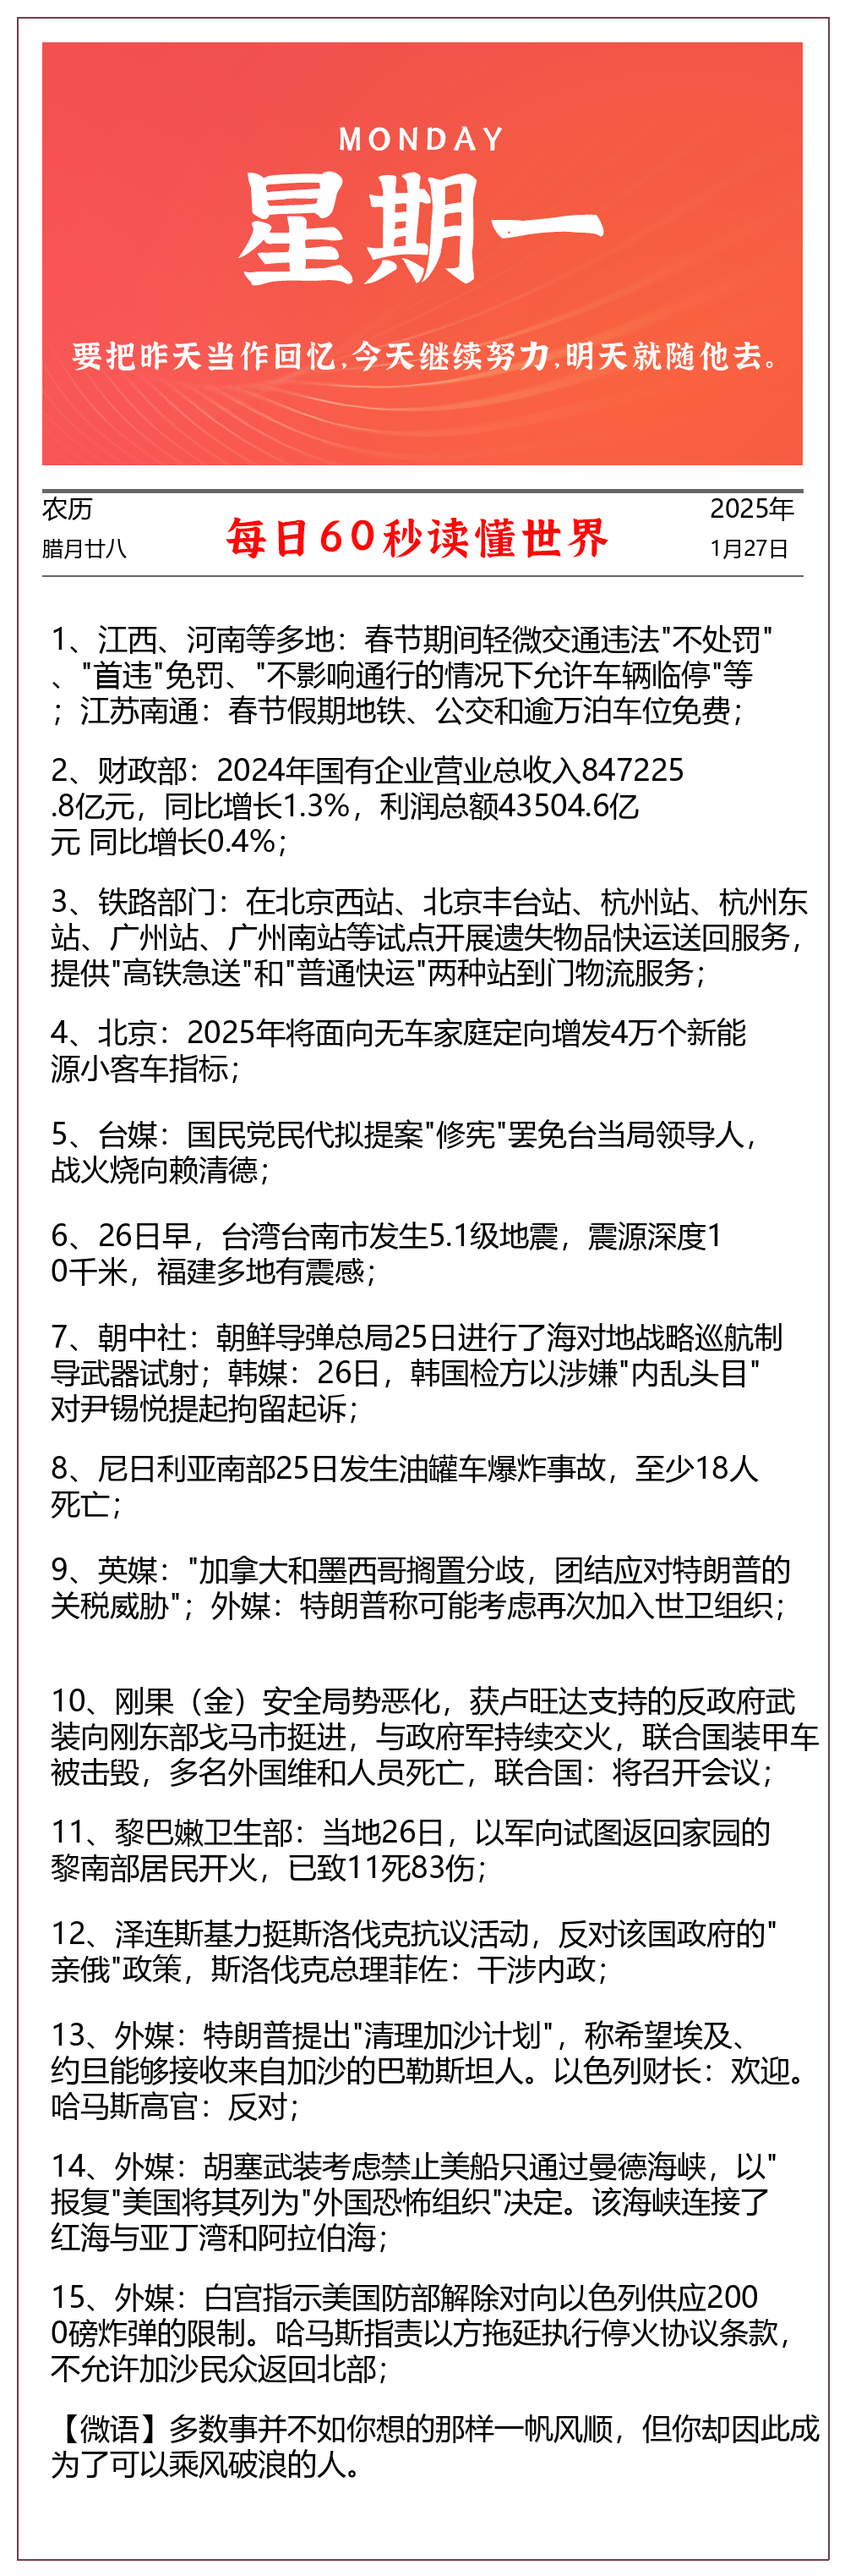
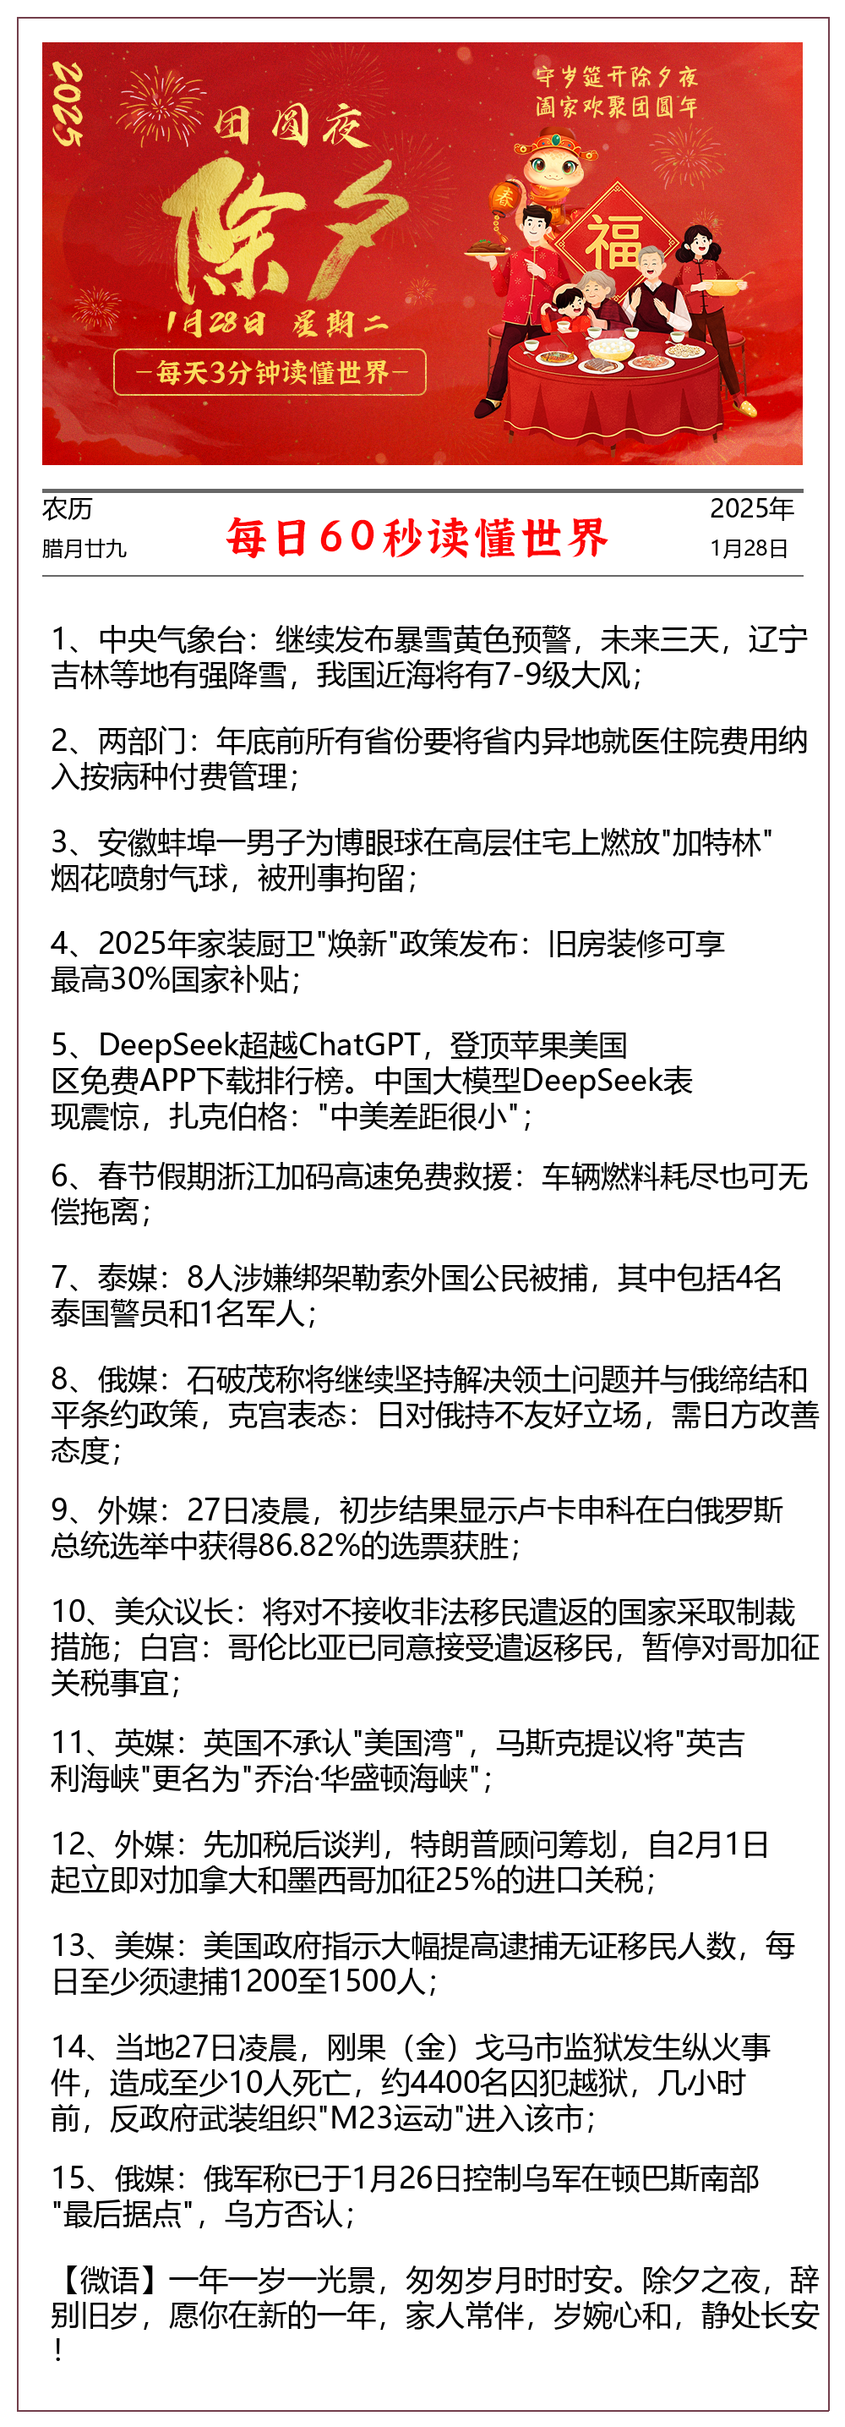
Update the "60s-for-news" picture

diff --git a/content/zh/posts/zaobao.md b/content/zh/posts/zaobao.md
@@ -1,6 +1,6 @@
 +++
 title = "每日60秒早报"
-date = 2025-01-27T04:31:10+08:00
+date = 2025-01-28T04:32:42+08:00
 weight = 1
 +++
 
